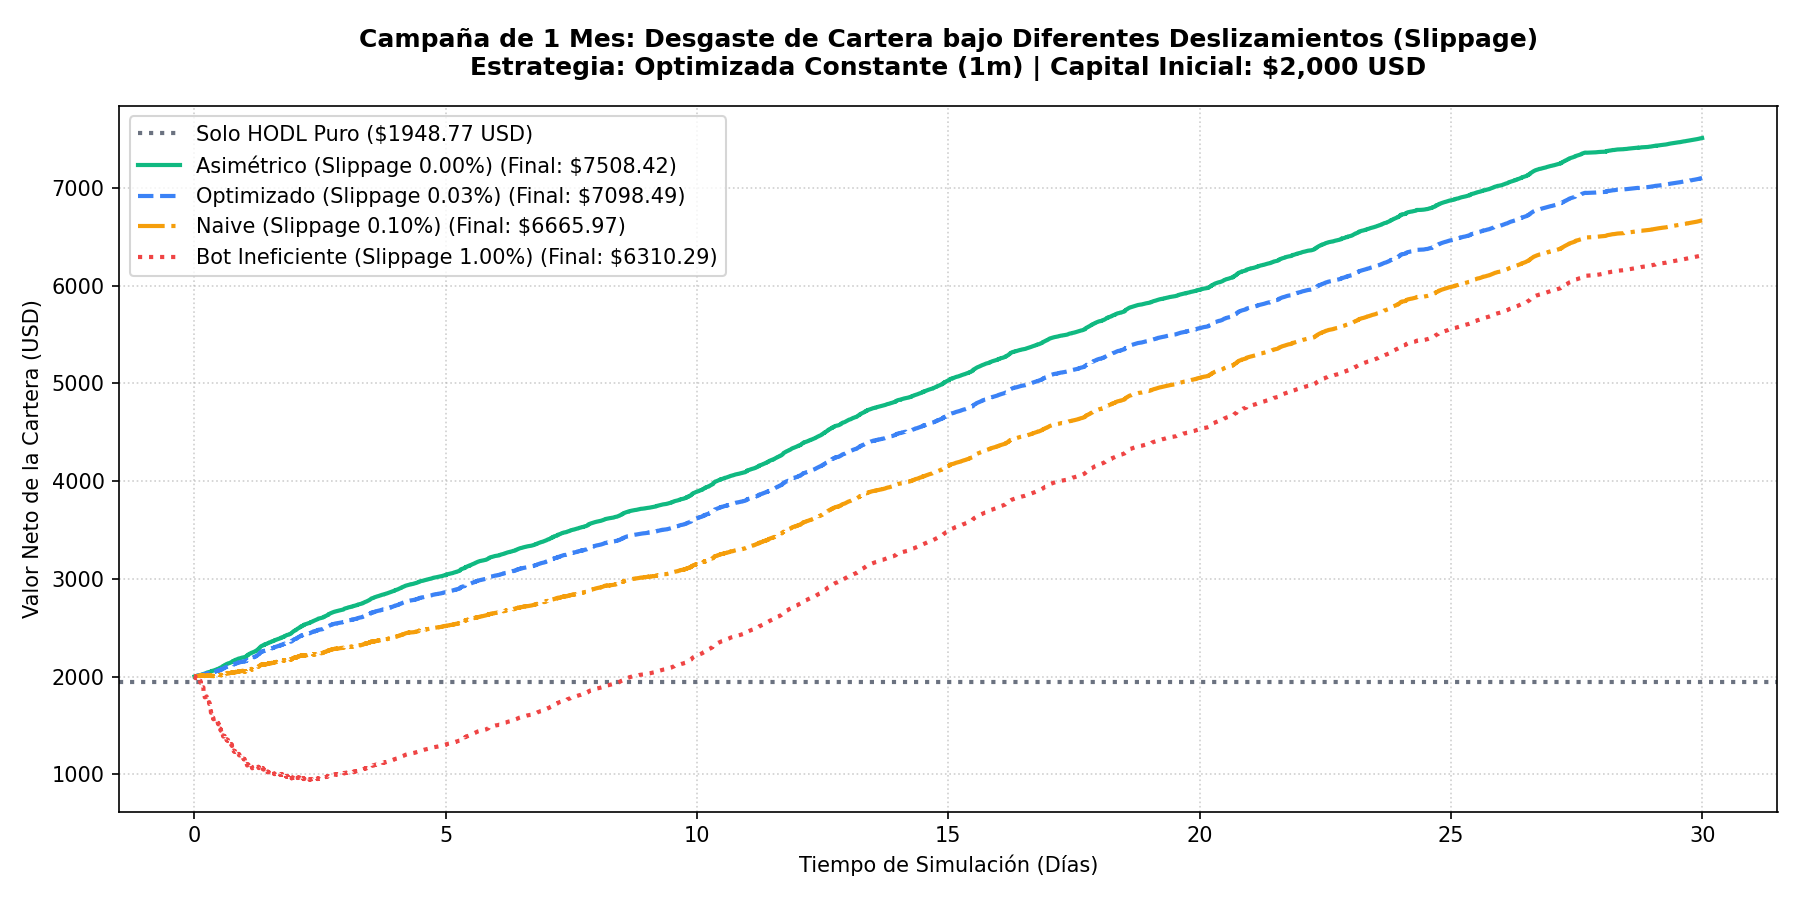
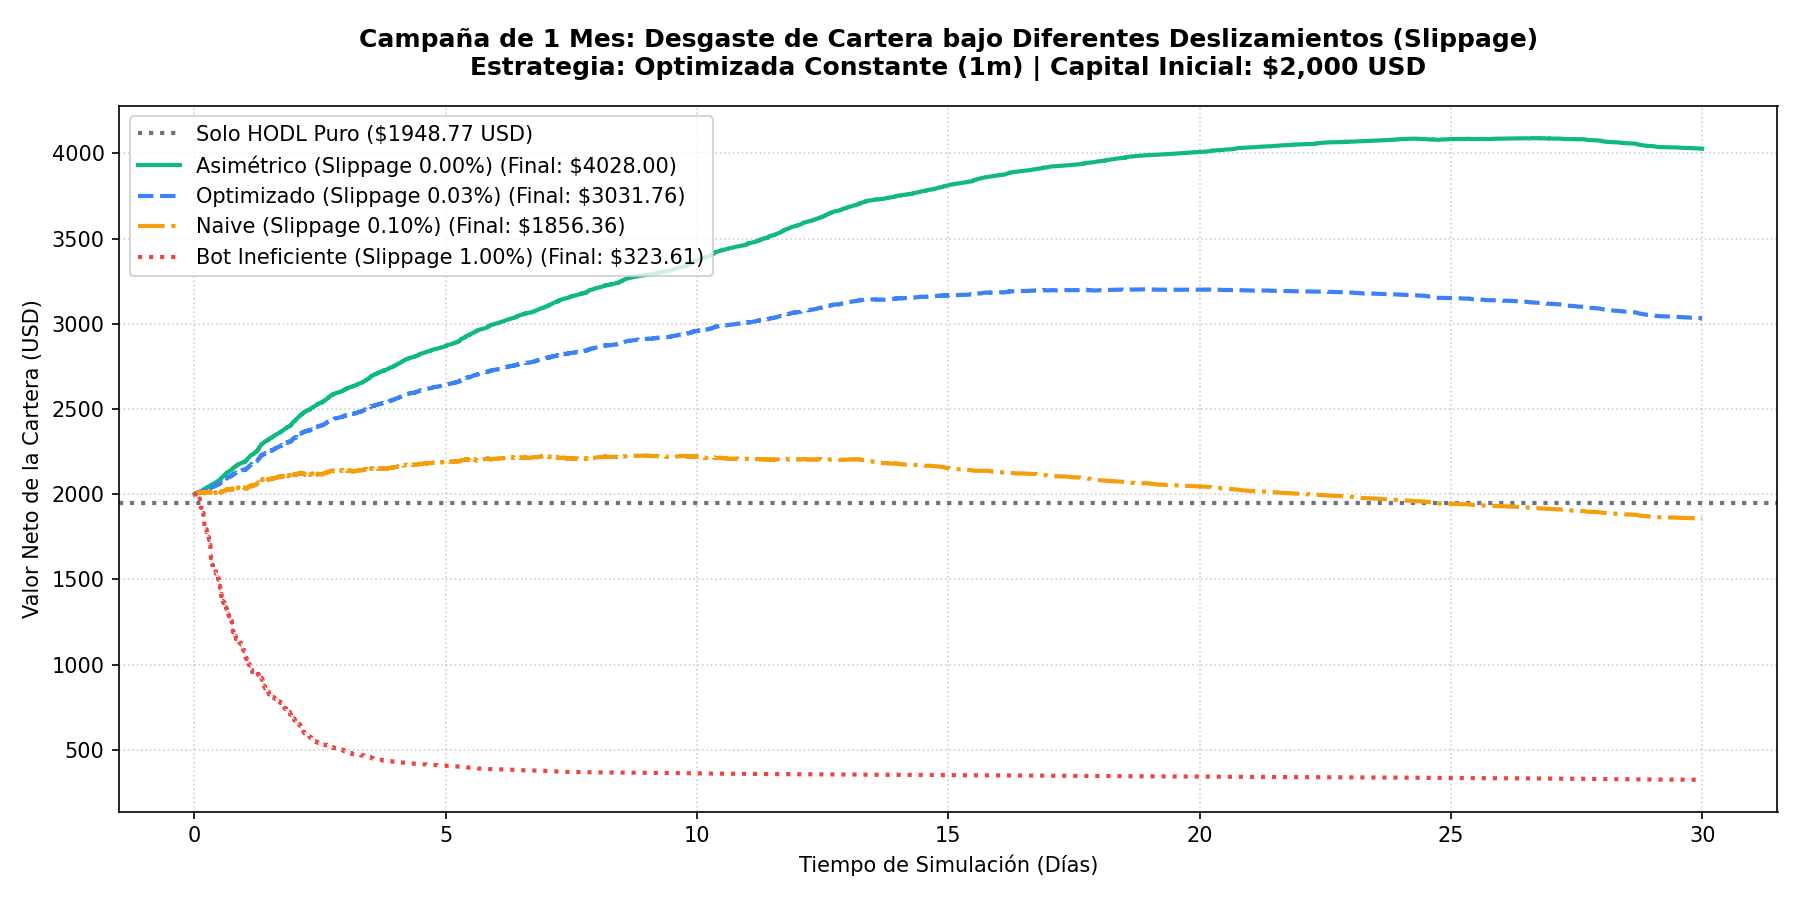
feat: correct fee physics to scale with active capital in backtest.py and update questions log

diff --git a/projects/01_liquidity_book_manager/src/backtest.py b/projects/01_liquidity_book_manager/src/backtest.py
@@ -315,14 +315,14 @@ class BinLiquidityBacktester:
                     if st["L"] <= price_bin <= st["U"]:
                         # COMISIONES
                         if fee_model == "realistic":
-                            c_bin = capital / st["w"]
-                            share = c_bin / (pool_bin_tvl + c_bin)
+                            c_bin = max(0.0, st["capital_assets"]) / st["w"]
+                            share = c_bin / (pool_bin_tvl + c_bin) if (pool_bin_tvl + c_bin) > 0 else 0.0
                             fee_earned = volume_real[t] * base_fee_rate * share
                             st["fees"] += fee_earned
                         else:
                             vol_factor = 1.0 + 2.0 * max(0.0, (vol_est_local / 0.65) - 1.0)
                             effective_fee_rate = base_fee_rate * vol_factor
-                            c_bin = capital / st["w"]
+                            c_bin = max(0.0, st["capital_assets"]) / st["w"]
                             st["fees"] += c_bin * effective_fee_rate
                     else:
                         # REBALANCEO

diff --git a/projects/01_liquidity_book_manager/registro_preguntas.md b/projects/01_liquidity_book_manager/registro_preguntas.md
@@ -1439,21 +1439,26 @@ A continuación se exponen las tablas comparativas ASCII para la semana y el mes
 
 | Estrategia | Configuración de Slippage | Rebal. | Fees ($) | Gas ($) | Slippage ($) | Valor Final Cartera ($) |
 | :--- | :--- | :---: | :---: | :---: | :---: | :---: |
-| **Estática Fija (12 bins)** | Medida 1: Naive (0.10%) | 60 | $212.11 | $21.00 | $111.92 | **$1,943.77 USD** (Pierde vs HODL) |
-| | Medida 2: Optimizado (0.03%) | 60 | $212.11 | $21.00 | $34.27 | **$2,018.54 USD** (Rentable) |
-| | Medida 3: Asimétrico (0.00%) | 60 | $212.11 | $21.00 | $0.00 | **$2,051.54 USD** (Rentable) |
-| **Dinámica 1-Sigma** | Medida 1: Naive (0.10%) | 36 | $175.24 | $12.60 | $68.81 | **$1,991.71 USD** (Rentable) |
-| | Medida 2: Optimizado (0.03%) | 36 | $175.24 | $12.60 | $20.89 | **$2,038.26 USD** (Rentable) |
-| | Medida 3: Asimétrico (0.00%) | 36 | $175.24 | $12.60 | $0.00 | **$2,058.56 USD** (Rentable) |
-| **Optimizada Constante** | Medida 1: Naive (0.10%) | 503 | $1,186.99 | $176.05 | $630.09 | **$1,886.44 USD** (Pierde vs HODL) |
-| | Medida 2: Optimizado (0.03%) | 503 | $1,186.99 | $176.05 | $221.19 | **$2,211.66 USD** (Rentable) |
-| | Medida 3: Asimétrico (0.00%) | 503 | $1,186.99 | $176.05 | $0.00 | **$2,391.01 USD** (Rentable) |
-| **Optimizada GARCH(1,1)** | Medida 1: Naive (0.10%) | 311 | $761.87 | $108.85 | $461.84 | **$1,821.36 USD** (Pierde vs HODL) |
-| | Medida 2: Optimizado (0.03%) | 311 | $761.87 | $108.85 | $153.31 | **$2,090.75 USD** (Rentable) |
-| | Medida 3: Asimétrico (0.00%) | 311 | $761.87 | $108.85 | $0.00 | **$2,225.59 USD** (Rentable) |
-| **Optimizada Heston** | Medida 1: Naive (0.10%) | 134 | $404.77 | $46.90 | $233.63 | **$1,900.57 USD** (Pierde vs HODL) |
-| | Medida 2: Optimizado (0.03%) | 134 | $404.77 | $46.90 | $73.32 | **$2,049.93 USD** (Rentable) |
-| | Medida 3: Asimétrico (0.00%) | 134 | $404.77 | $46.90 | $0.00 | **$2,118.35 USD** (Rentable) |
+| **Estática Fija (12 bins)** | Medida 1: Naive (0.10%) | 60 | $200.21 | $21.00 | $111.92 | **$1,931.87 USD** (Pierde vs HODL) |
+| | Medida 2: Optimizado (0.03%) | 60 | $203.88 | $21.00 | $34.27 | **$2,010.30 USD** (Rentable) |
+| | Medida 3: Asimétrico (0.00%) | 60 | $205.47 | $21.00 | $0.00 | **$2,044.90 USD** (Rentable) |
+| | Medida 4: Bot Ineficiente (1.00%) | 60 | $160.35 | $21.00 | $872.60 | **$1,162.54 USD** (Pierde vs HODL) |
+| **Dinámica 1-Sigma** | Medida 1: Naive (0.10%) | 36 | $168.78 | $12.60 | $68.81 | **$1,985.25 USD** (Rentable) |
+| | Medida 2: Optimizado (0.03%) | 36 | $170.64 | $12.60 | $20.89 | **$2,033.66 USD** (Rentable) |
+| | Medida 3: Asimétrico (0.00%) | 36 | $171.45 | $12.60 | $0.00 | **$2,054.77 USD** (Rentable) |
+| | Medida 4: Bot Ineficiente (1.00%) | 36 | $147.16 | $12.60 | $591.39 | **$1,456.90 USD** (Pierde vs HODL) |
+| **Optimizada Constante** | Medida 1: Naive (0.10%) | 503 | $809.14 | $176.05 | $630.09 | **$1,508.60 USD** (Pierde vs HODL) |
+| | Medida 2: Optimizado (0.03%) | 503 | $921.46 | $176.05 | $221.19 | **$1,946.14 USD** (Pierde vs HODL) |
+| | Medida 3: Asimétrico (0.00%) | 503 | $976.63 | $176.05 | $0.00 | **$2,180.65 USD** (Rentable) |
+| | Medida 4: Bot Ineficiente (1.00%) | 503 | $262.39 | $176.05 | $1,718.88 | **$238.53 USD** (Pérdida Crítica) |
+| **Optimizada GARCH(1,1)** | Medida 1: Naive (0.10%) | 311 | $595.64 | $108.85 | $461.84 | **$1,655.13 USD** (Pierde vs HODL) |
+| | Medida 2: Optimizado (0.03%) | 311 | $648.03 | $108.85 | $153.31 | **$1,976.92 USD** (Rentable) |
+| | Medida 3: Asimétrico (0.00%) | 311 | $672.56 | $108.85 | $0.00 | **$2,136.28 USD** (Rentable) |
+| | Medida 4: Bot Ineficiente (1.00%) | 311 | $258.60 | $108.85 | $1,719.45 | **$295.70 USD** (Pérdida Crítica) |
+| **Optimizada Heston** | Medida 1: Naive (0.10%) | 134 | $358.57 | $46.90 | $233.63 | **$1,854.37 USD** (Pierde vs HODL) |
+| | Medida 2: Optimizado (0.03%) | 134 | $373.57 | $46.90 | $73.32 | **$2,018.74 USD** (Rentable) |
+| | Medida 3: Asimétrico (0.00%) | 134 | $380.27 | $46.90 | $0.00 | **$2,093.85 USD** (Rentable) |
+| | Medida 4: Bot Ineficiente (1.00%) | 134 | $224.10 | $46.90 | $1,393.16 | **$656.60 USD** (Pérdida Crítica) |
 
 ---
 
@@ -1464,21 +1469,26 @@ A continuación se exponen las tablas comparativas ASCII para la semana y el mes
 
 | Estrategia | Configuración de Slippage | Rebal. | Fees ($) | Gas ($) | Slippage ($) | Valor Final Cartera ($) |
 | :--- | :--- | :---: | :---: | :---: | :---: | :---: |
-| **Estática Fija (12 bins)** | Medida 1: Naive (0.10%) | 210 | $1,123.62 | $73.50 | $347.16 | **$2,420.39 USD** (Rentable) |
-| | Medida 2: Optimizado (0.03%) | 210 | $1,123.62 | $73.50 | $111.70 | **$2,631.07 USD** (Rentable) |
-| | Medida 3: Asimétrico (0.00%) | 210 | $1,123.62 | $73.50 | $0.00 | **$2,731.31 USD** (Rentable) |
-| **Dinámica 1-Sigma** | Medida 1: Naive (0.10%) | 138 | $873.34 | $48.30 | $243.71 | **$2,360.09 USD** (Rentable) |
-| | Medida 2: Optimizado (0.03%) | 138 | $873.34 | $48.30 | $76.59 | **$2,513.23 USD** (Rentable) |
-| | Medida 3: Asimétrico (0.00%) | 138 | $873.34 | $48.30 | $0.00 | **$2,583.51 USD** (Rentable) |
-| **Optimizada Constante** | Medida 1: Naive (0.10%) | 2,121 | $6,255.97 | $742.35 | $842.45 | **$6,114.73 USD** (Altamente Rentable) |
-| | Medida 2: Optimizado (0.03%) | 2,121 | $6,255.97 | $742.35 | $409.93 | **$6,200.74 USD** (Altamente Rentable) |
-| | Medida 3: Asimétrico (0.00%) | 2,121 | $6,255.97 | $742.35 | $0.00 | **$6,344.18 USD** (Altamente Rentable) |
-| **Optimizada GARCH(1,1)** | Medida 1: Naive (0.10%) | 1,569 | $4,926.68 | $549.15 | $898.16 | **$4,878.62 USD** (Altamente Rentable) |
-| | Medida 2: Optimizado (0.03%) | 1,569 | $4,926.68 | $549.15 | $401.39 | **$5,076.14 USD** (Altamente Rentable) |
-| | Medida 3: Asimétrico (0.00%) | 1,569 | $4,926.68 | $549.15 | $0.00 | **$5,274.85 USD** (Altamente Rentable) |
-| **Optimizada Heston** | Medida 1: Naive (0.10%) | 272 | $1,343.97 | $95.20 | $422.96 | **$2,489.71 USD** (Rentable) |
-| | Medida 2: Optimizado (0.03%) | 272 | $1,343.97 | $95.20 | $138.83 | **$2,738.84 USD** (Rentable) |
-| | Medida 3: Asimétrico (0.00%) | 272 | $1,343.97 | $95.20 | $0.00 | **$2,861.12 USD** (Rentable) |
+| **Estática Fija (12 bins)** | Medida 1: Naive (0.10%) | 210 | $947.69 | $73.50 | $347.16 | **$2,244.46 USD** (Rentable) |
+| | Medida 2: Optimizado (0.03%) | 210 | $1,009.42 | $73.50 | $111.70 | **$2,516.87 USD** (Rentable) |
+| | Medida 3: Asimétrico (0.00%) | 210 | $1,037.59 | $73.50 | $0.00 | **$2,645.28 USD** (Rentable) |
+| | Medida 4: Bot Ineficiente (1.00%) | 210 | $478.91 | $73.50 | $1,636.08 | **$653.21 USD** (Pérdida Crítica) |
+| **Dinámica 1-Sigma** | Medida 1: Naive (0.10%) | 138 | $780.27 | $48.30 | $243.71 | **$2,267.02 USD** (Rentable) |
+| | Medida 2: Optimizado (0.03%) | 138 | $813.60 | $48.30 | $76.59 | **$2,453.49 USD** (Rentable) |
+| | Medida 3: Asimétrico (0.00%) | 138 | $828.51 | $48.30 | $0.00 | **$2,538.68 USD** (Rentable) |
+| | Medida 4: Bot Ineficiente (1.00%) | 138 | $485.08 | $48.30 | $1,429.14 | **$898.95 USD** (Pierde vs HODL) |
+| **Optimizada Constante** | Medida 1: Naive (0.10%) | 2,121 | $1,446.36 | $742.35 | $842.45 | **$1,305.13 USD** (Pierde vs HODL) |
+| | Medida 2: Optimizado (0.03%) | 2,121 | $2,189.25 | $742.35 | $409.93 | **$2,134.01 USD** (Rentable) |
+| | Medida 3: Asimétrico (0.00%) | 2,121 | $2,775.55 | $742.35 | $0.00 | **$2,863.76 USD** (Altamente Rentable) |
+| | Medida 4: Bot Ineficiente (1.00%) | 2,121 | $269.28 | $742.35 | $1,198.12 | **$236.65 USD** (Ruina Financiera) |
+| **Optimizada GARCH(1,1)** | Medida 1: Naive (0.10%) | 1,569 | $1,487.81 | $549.15 | $898.16 | **$1,439.75 USD** (Pierde vs HODL) |
+| | Medida 2: Optimizado (0.03%) | 1,569 | $2,189.43 | $549.15 | $401.39 | **$2,338.89 USD** (Rentable) |
+| | Medida 3: Asimétrico (0.00%) | 1,569 | $2,650.45 | $549.15 | $0.00 | **$2,998.62 USD** (Altamente Rentable) |
+| | Medida 4: Bot Ineficiente (1.00%) | 1,569 | $271.29 | $549.15 | $1,382.96 | **$238.69 USD** (Ruina Financiera) |
+| **Optimizada Heston** | Medida 1: Naive (0.10%) | 272 | $1,013.88 | $95.20 | $422.96 | **$2,159.63 USD** (Rentable) |
+| | Medida 2: Optimizado (0.03%) | 272 | $1,122.87 | $95.20 | $138.83 | **$2,517.75 USD** (Rentable) |
+| | Medida 3: Asimétrico (0.00%) | 272 | $1,174.07 | $95.20 | $0.00 | **$2,691.22 USD** (Rentable) |
+| | Medida 4: Bot Ineficiente (1.00%) | 272 | $348.16 | $95.20 | $1,701.21 | **$422.07 USD** (Ruina Financiera) |
 
 ---
 